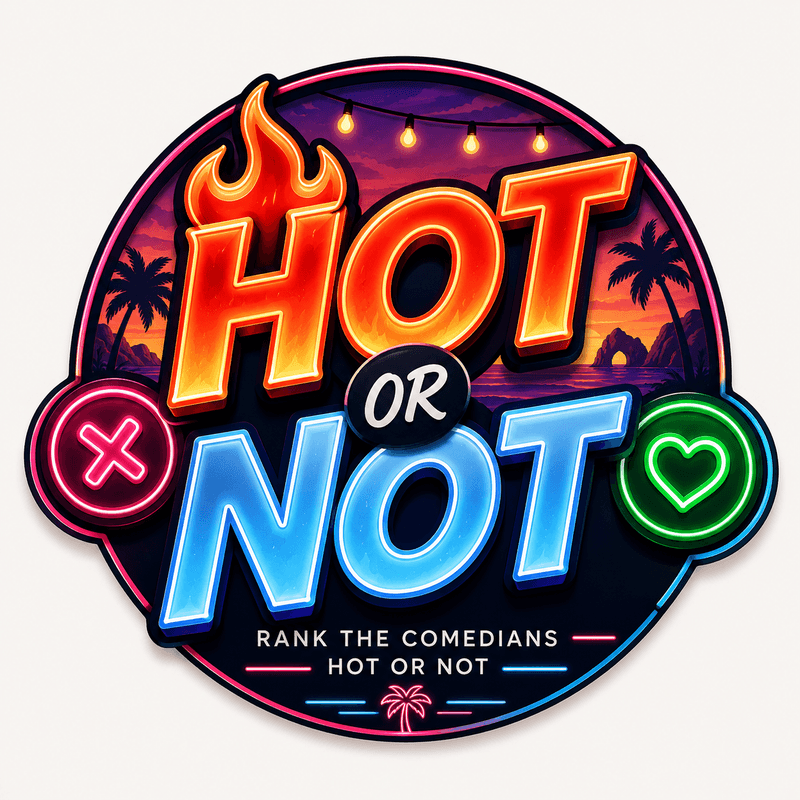
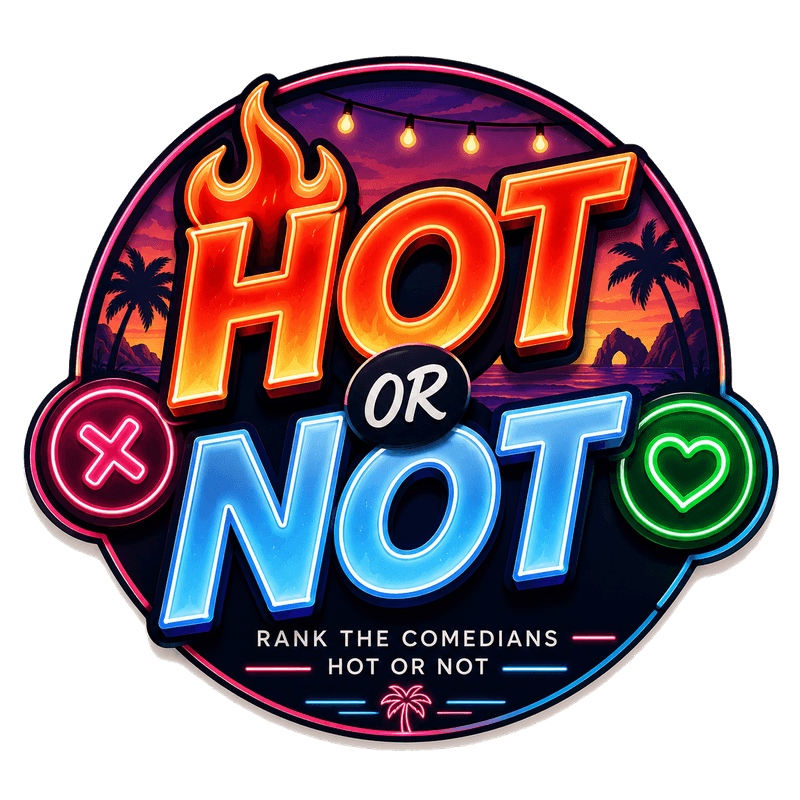
Redesign home screen: arcade sunset background + locked games
- Transparent logos: flood-fill the white sticker background to alpha so
  the Claude Cabo and Hot or Not art float on the scene.
- New synthwave-sunset backdrop on the home screen (gradient sky, retro
  sun, twinkling stars, palm silhouettes, animated neon grid).
- Hero logo with glow + gentle float makes the app name prominent.
- Arcade-style layout: featured Hot or Not tile plus a grid of locked
  'unlocking soon' game slots (Most Likely To, Hot Takes, etc.).

Claude-Session: https://claude.ai/code/session_01JMQFnwsbSZ4qAgaMs7g4xk

diff --git a/src/index.css b/src/index.css
@@ -62,4 +62,80 @@
       0 0 16px rgba(57, 192, 214, 0.7),
       0 0 30px rgba(57, 192, 214, 0.5);
   }
+
+  /* ---- Arcade / synthwave-sunset home background ---- */
+  .cabo-sunset {
+    background: linear-gradient(
+      180deg,
+      #0a0820 0%,
+      #170f38 30%,
+      #3d1a5b 52%,
+      #8a2a6b 70%,
+      #ff5e6c 86%,
+      #ffb347 100%
+    );
+  }
+
+  .cabo-sun {
+    width: 230px;
+    height: 230px;
+    border-radius: 9999px;
+    background: linear-gradient(180deg, #ffe27a 0%, #ff8a5b 48%, #ff3d77 100%);
+    box-shadow:
+      0 0 70px 12px rgba(255, 94, 108, 0.55),
+      0 0 140px 40px rgba(255, 61, 119, 0.25);
+  }
+
+  /* Retro horizontal slats across the lower half of the sun. */
+  .cabo-sun-slats {
+    background: repeating-linear-gradient(
+      180deg,
+      transparent 0 26px,
+      rgba(10, 8, 32, 0.85) 26px 30px,
+      transparent 30px 40px,
+      rgba(10, 8, 32, 0.85) 40px 44px,
+      transparent 44px 60px,
+      rgba(10, 8, 32, 0.85) 60px 65px
+    );
+  }
+
+  .cabo-grid {
+    position: absolute;
+    left: -30%;
+    right: -30%;
+    bottom: 0;
+    height: 44%;
+    background-image:
+      linear-gradient(rgba(57, 192, 214, 0.55) 1px, transparent 1px),
+      linear-gradient(90deg, rgba(255, 61, 119, 0.45) 1px, transparent 1px);
+    background-size: 46px 46px;
+    transform: perspective(330px) rotateX(63deg);
+    transform-origin: bottom center;
+    -webkit-mask-image: linear-gradient(to top, #000 22%, transparent 92%);
+    mask-image: linear-gradient(to top, #000 22%, transparent 92%);
+    animation: cabo-grid 7s linear infinite;
+  }
+}
+
+@keyframes cabo-grid {
+  from {
+    background-position:
+      0 0,
+      0 0;
+  }
+  to {
+    background-position:
+      0 46px,
+      0 0;
+  }
+}
+
+@keyframes twinkle {
+  0%,
+  100% {
+    opacity: 0.25;
+  }
+  50% {
+    opacity: 1;
+  }
 }

diff --git a/src/components/HomeBackground.tsx b/src/components/HomeBackground.tsx
@@ -1,0 +1,67 @@
+// Synthwave-sunset backdrop for the arcade home screen: gradient sky, a retro
+// slatted sun, a few twinkling stars, palm silhouettes, and a moving neon grid.
+// Purely decorative — sits behind the content and ignores pointer events.
+
+const STARS = [
+  { top: '8%', left: '14%', d: '0s' },
+  { top: '12%', left: '78%', d: '0.6s' },
+  { top: '5%', left: '52%', d: '1.2s' },
+  { top: '20%', left: '32%', d: '1.8s' },
+  { top: '16%', left: '64%', d: '0.9s' },
+  { top: '24%', left: '88%', d: '1.5s' },
+  { top: '10%', left: '40%', d: '2.1s' },
+];
+
+export function HomeBackground() {
+  return (
+    <div className="cabo-sunset pointer-events-none absolute inset-0 overflow-hidden">
+      {/* stars */}
+      {STARS.map((s, i) => (
+        <span
+          key={i}
+          className="absolute h-1 w-1 rounded-full bg-white"
+          style={{ top: s.top, left: s.left, animation: `twinkle 3s ease-in-out ${s.d} infinite` }}
+        />
+      ))}
+
+      {/* retro sun */}
+      <div className="absolute left-1/2 top-[15%] -translate-x-1/2">
+        <div className="cabo-sun relative overflow-hidden">
+          <div className="absolute inset-0 cabo-sun-slats" />
+        </div>
+      </div>
+
+      {/* palm silhouettes */}
+      <Palm className="absolute bottom-[20%] left-[-10px] h-44 w-auto opacity-90" />
+      <Palm className="absolute bottom-[19%] right-[-12px] h-52 w-auto scale-x-[-1] opacity-90" />
+
+      {/* neon grid floor */}
+      <div className="cabo-grid" />
+
+      {/* readability fades top & bottom */}
+      <div className="absolute inset-x-0 top-0 h-40 bg-gradient-to-b from-night-900/80 to-transparent" />
+      <div className="absolute inset-x-0 bottom-0 h-1/3 bg-gradient-to-t from-night-900 via-night-900/70 to-transparent" />
+    </div>
+  );
+}
+
+function Palm({ className = '' }: { className?: string }) {
+  return (
+    <svg viewBox="0 0 120 200" className={className} fill="#0a0820" aria-hidden>
+      {/* trunk */}
+      <path
+        d="M58 200c-4-46-6-92-2-128 1-9 3-18 7-26l5 2c-4 8-6 17-7 26-3 36-1 82 3 126z"
+        fill="#0a0820"
+      />
+      {/* fronds */}
+      <g fill="#0a0820">
+        <path d="M62 46C46 30 26 24 6 26c18 4 33 14 47 28z" />
+        <path d="M62 46C54 24 38 8 16 2c16 12 27 28 34 48z" />
+        <path d="M64 46C74 26 94 12 116 10c-18 8-32 22-42 40z" />
+        <path d="M64 46c14-14 34-22 54-20-18 2-35 11-48 26z" />
+        <path d="M63 44c-2-14-2-30 4-44-2 14-1 30 2 44z" />
+      </g>
+      <circle cx="62" cy="46" r="6" fill="#0a0820" />
+    </svg>
+  );
+}

diff --git a/src/screens/HomeScreen.tsx b/src/screens/HomeScreen.tsx
@@ -2,8 +2,9 @@ import { useNavigate } from 'react-router-dom';
 import { motion } from 'framer-motion';
 import { Logo, Screen } from '../components/ui';
 import { PlayerAvatar } from '../components/PlayerAvatar';
-import { GameTile } from '../components/GameTile';
-import { GAMES } from '../games/registry';
+import { GameTile, LockedTile } from '../components/GameTile';
+import { HomeBackground } from '../components/HomeBackground';
+import { COMING_SOON, GAMES } from '../games/registry';
 import { usePlayers, useResults } from '../store/useStore';
 
 export function HomeScreen() {
@@ -13,33 +14,47 @@ export function HomeScreen() {
   const hasResults = results.length > 0;
 
   return (
-    <Screen>
+    <Screen backdrop={<HomeBackground />}>
       <motion.div
         initial={{ opacity: 0, y: 10 }}
         animate={{ opacity: 1, y: 0 }}
         className="flex flex-1 flex-col"
       >
-        <div className="pt-8">
+        {/* Hero logo */}
+        <motion.div
+          className="flex justify-center pt-6"
+          style={{ filter: 'drop-shadow(0 6px 26px rgba(255,61,119,0.45))' }}
+          animate={{ y: [0, -7, 0] }}
+          transition={{ duration: 5, repeat: Infinity, ease: 'easeInOut' }}
+        >
           <Logo />
-        </div>
+        </motion.div>
 
         {/* Games */}
-        <p className="mb-3 mt-9 font-display text-sm font-extrabold uppercase tracking-widest text-white/50">
-          Games
+        <p className="mb-3 mt-6 font-display text-sm font-extrabold uppercase tracking-widest text-white/60">
+          🕹️ Arcade
         </p>
+
         <div className="flex flex-col gap-3">
           {GAMES.map((g) => (
             <GameTile key={g.id} game={g} onClick={() => navigate(`/play/${g.id}`)} />
           ))}
-          <div className="rounded-3xl border border-dashed border-white/15 p-4 text-center font-body text-sm font-bold text-white/35">
-            More games coming this week…
-          </div>
+        </div>
+
+        {/* Locked / coming soon */}
+        <p className="mb-2 mt-5 font-display text-xs font-extrabold uppercase tracking-widest text-white/40">
+          Unlocking soon
+        </p>
+        <div className="grid auto-rows-fr grid-cols-2 gap-3">
+          {COMING_SOON.map((g) => (
+            <LockedTile key={g.title} game={g} />
+          ))}
         </div>
 
         {/* Players */}
-        <div className="mb-3 mt-9 flex items-center justify-between">
-          <p className="font-display text-sm font-extrabold uppercase tracking-widest text-white/50">
-            Players
+        <div className="mb-3 mt-8 flex items-center justify-between">
+          <p className="font-display text-sm font-extrabold uppercase tracking-widest text-white/60">
+            👥 Players
           </p>
           {hasResults && (
             <button
@@ -52,8 +67,8 @@ export function HomeScreen() {
         </div>
 
         {players.length === 0 ? (
-          <p className="rounded-2xl glass px-4 py-6 text-center font-body text-white/50">
-            No players yet. Start a game to add one!
+          <p className="glass rounded-2xl px-4 py-6 text-center font-body text-white/60">
+            No players yet — tap a game to add one!
           </p>
         ) : (
           <div className="flex flex-col gap-2 pb-4">

diff --git a/src/components/GameTile.tsx b/src/components/GameTile.tsx
@@ -1,5 +1,5 @@
 import { useState } from 'react';
-import type { GameMeta } from '../games/registry';
+import type { ComingSoonGame, GameMeta } from '../games/registry';
 
 const missingCache: Record<string, boolean> = {};
 
@@ -42,5 +42,30 @@ export function GameTile({ game, onClick }: { game: GameMeta; onClick: () => voi
         </div>
       )}
     </button>
+  );
+}
+
+/** A locked "coming soon" arcade slot — dimmed, padlocked, not playable. */
+export function LockedTile({ game }: { game: ComingSoonGame }) {
+  return (
+    <div
+      aria-disabled
+      className="relative flex h-full flex-col justify-between overflow-hidden rounded-2xl border border-white/10 bg-night-800/60 p-4"
+    >
+      <div className="absolute right-2.5 top-2.5 rounded-full bg-black/40 px-2 py-0.5 font-body text-[9px] font-extrabold uppercase tracking-widest text-white/50">
+        Soon
+      </div>
+      <div className="text-3xl opacity-70 grayscale">{game.emoji}</div>
+      <div className="mt-3">
+        <h3 className="font-display text-base font-extrabold leading-tight text-white/75">
+          {game.title}
+        </h3>
+        <p className="font-body text-xs font-bold text-white/35">{game.tagline}</p>
+      </div>
+      {/* lock overlay */}
+      <div className="pointer-events-none absolute inset-0 flex items-center justify-center">
+        <span className="text-2xl opacity-25">🔒</span>
+      </div>
+    </div>
   );
 }

diff --git a/src/components/ui.tsx b/src/components/ui.tsx
@@ -1,10 +1,18 @@
 import { type ReactNode, useState } from 'react';
 
-export function Screen({ children }: { children: ReactNode }) {
+export function Screen({
+  children,
+  backdrop,
+}: {
+  children: ReactNode;
+  /** Optional custom background layer; replaces the default ambient glow. */
+  backdrop?: ReactNode;
+}) {
   return (
-    <div className="cabo-bg no-select min-h-full w-full">
+    <div className={`no-select relative min-h-screen w-full ${backdrop ? '' : 'cabo-bg'}`}>
+      {backdrop}
       <div
-        className="mx-auto flex min-h-screen w-full max-w-md flex-col px-5"
+        className="relative mx-auto flex min-h-screen w-full max-w-md flex-col px-5"
         style={{
           paddingTop: 'max(env(safe-area-inset-top), 1rem)',
           paddingBottom: 'max(env(safe-area-inset-bottom), 1rem)',

diff --git a/src/games/registry.ts b/src/games/registry.ts
@@ -33,3 +33,17 @@ export const GAMES: GameMeta[] = [
 export function getGame(id: string): GameMeta | undefined {
   return GAMES.find((g) => g.id === id);
 }
+
+/** Teaser tiles for games that aren't built yet — shown locked on the home screen. */
+export interface ComingSoonGame {
+  title: string;
+  tagline: string;
+  emoji: string;
+}
+
+export const COMING_SOON: ComingSoonGame[] = [
+  { title: 'Most Likely To', tagline: 'Vote who fits the bill', emoji: '🏆' },
+  { title: 'Hot Takes', tagline: 'Defend your spiciest opinion', emoji: '🌶️' },
+  { title: 'Would You Rather', tagline: 'Pick your poison', emoji: '🤔' },
+  { title: 'Guess Who Said It', tagline: 'Match the quote to the player', emoji: '💬' },
+];